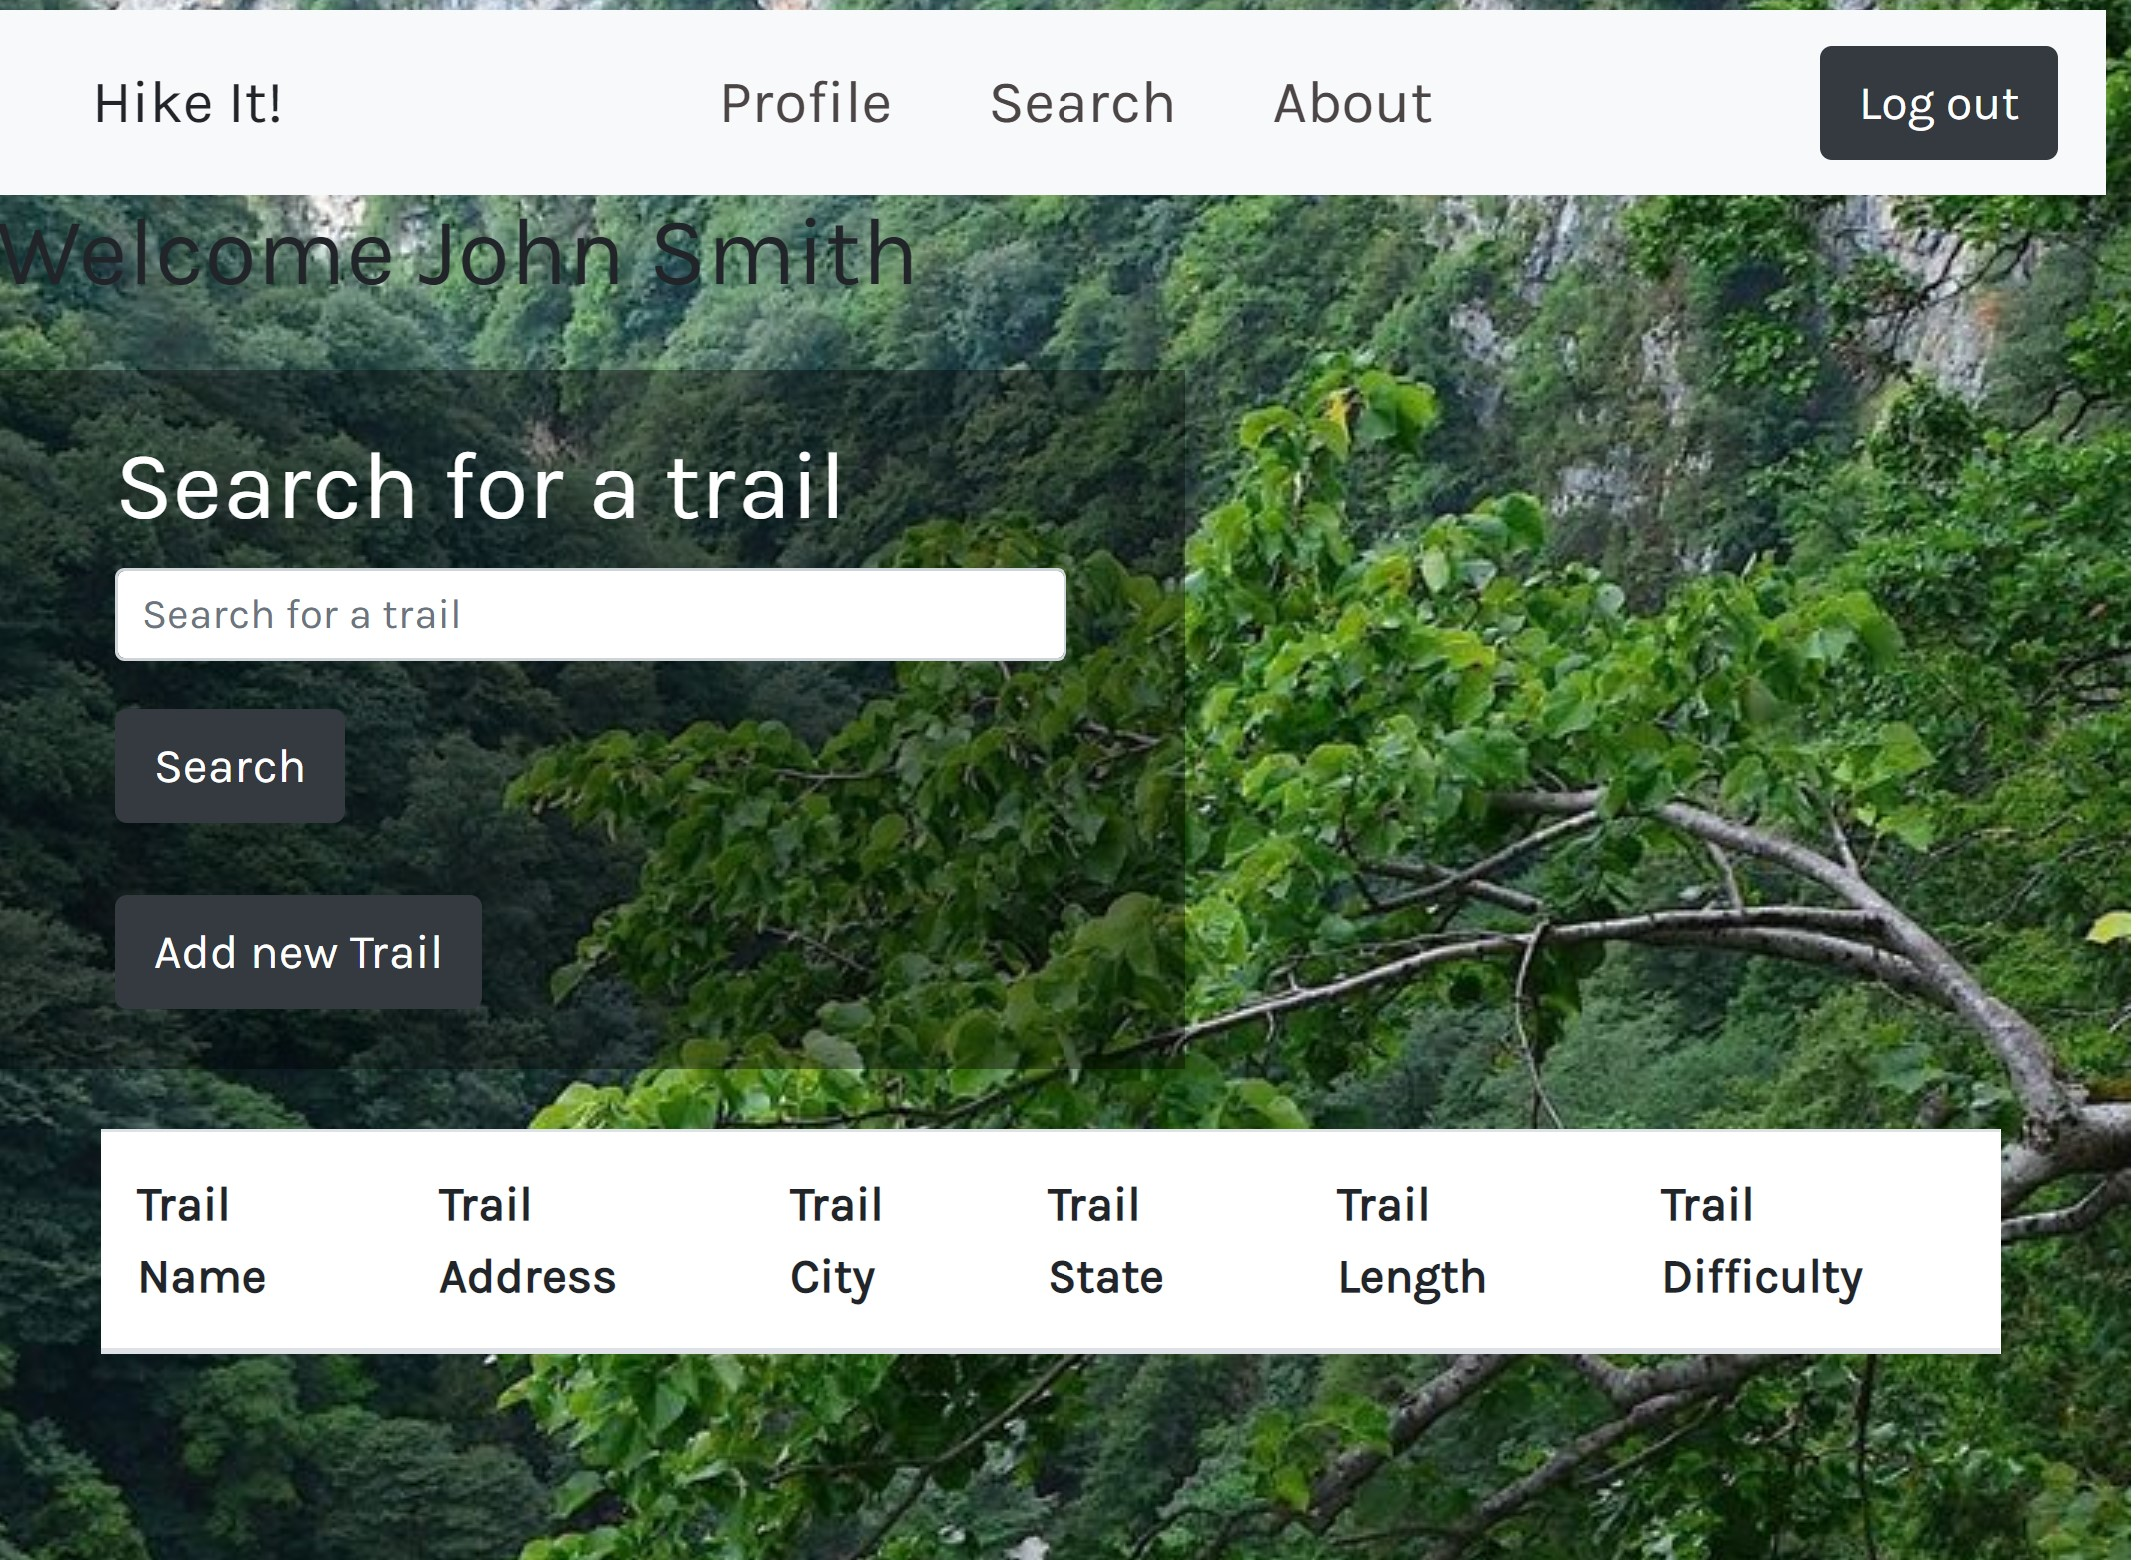
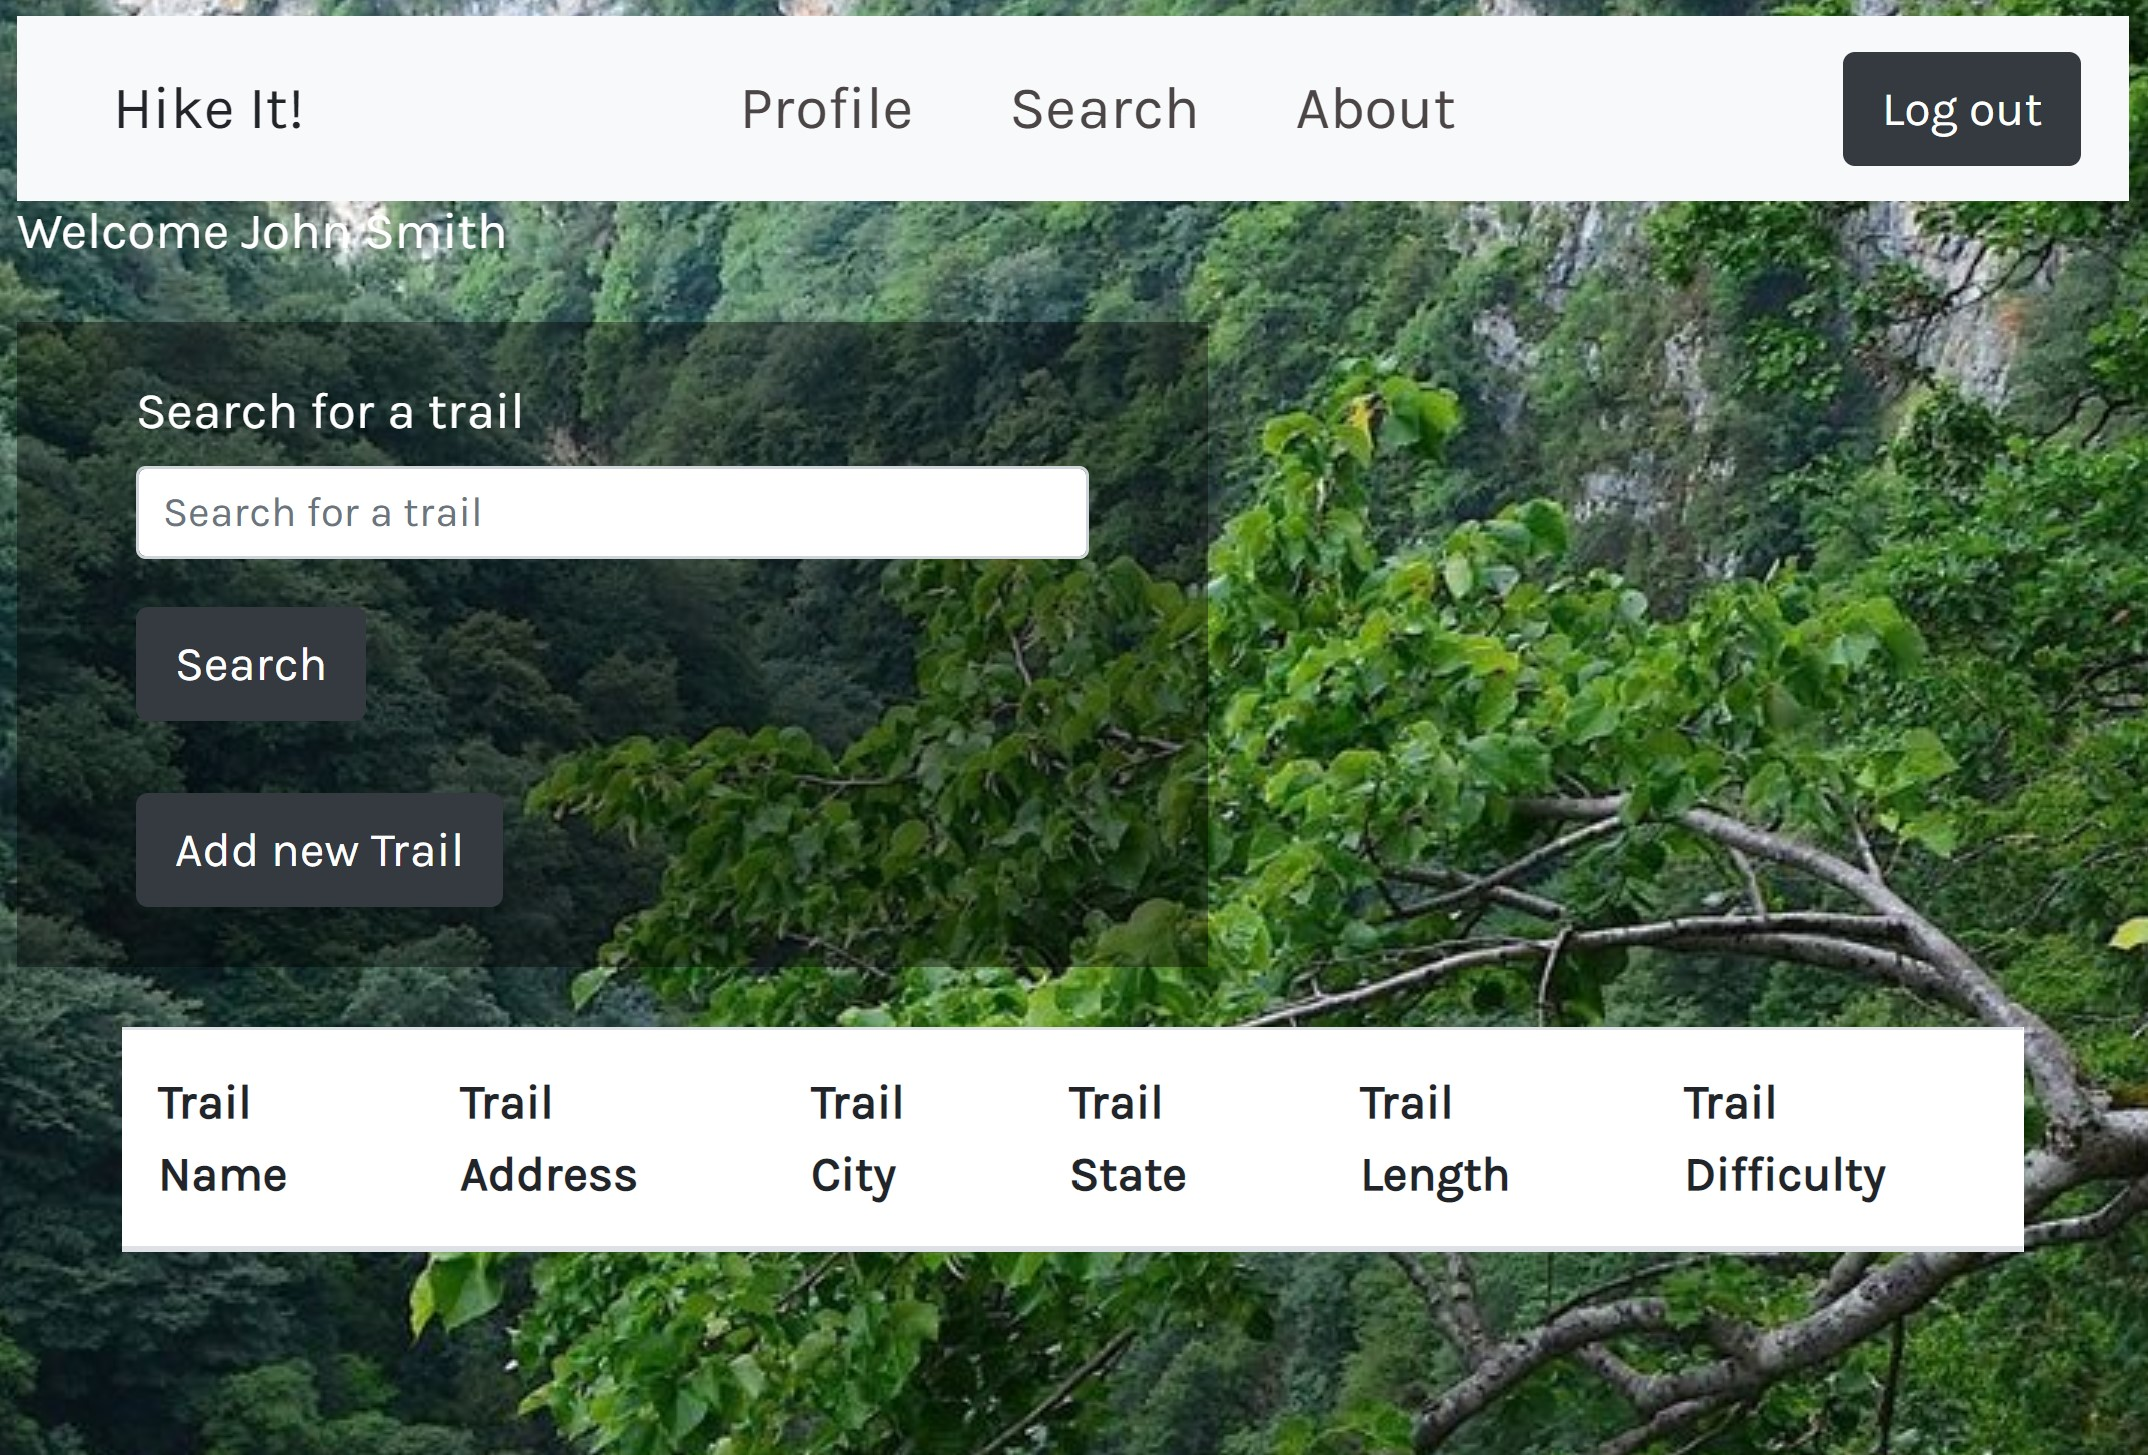
add firstname and lastname in dashboard-search handlebars

diff --git a/public/assets/css/style.css b/public/assets/css/style.css
@@ -142,3 +142,8 @@ body {
   background-color:#fff;
   
 }
+
+h2{
+  font-size:3vh;
+  color: white;
+}
